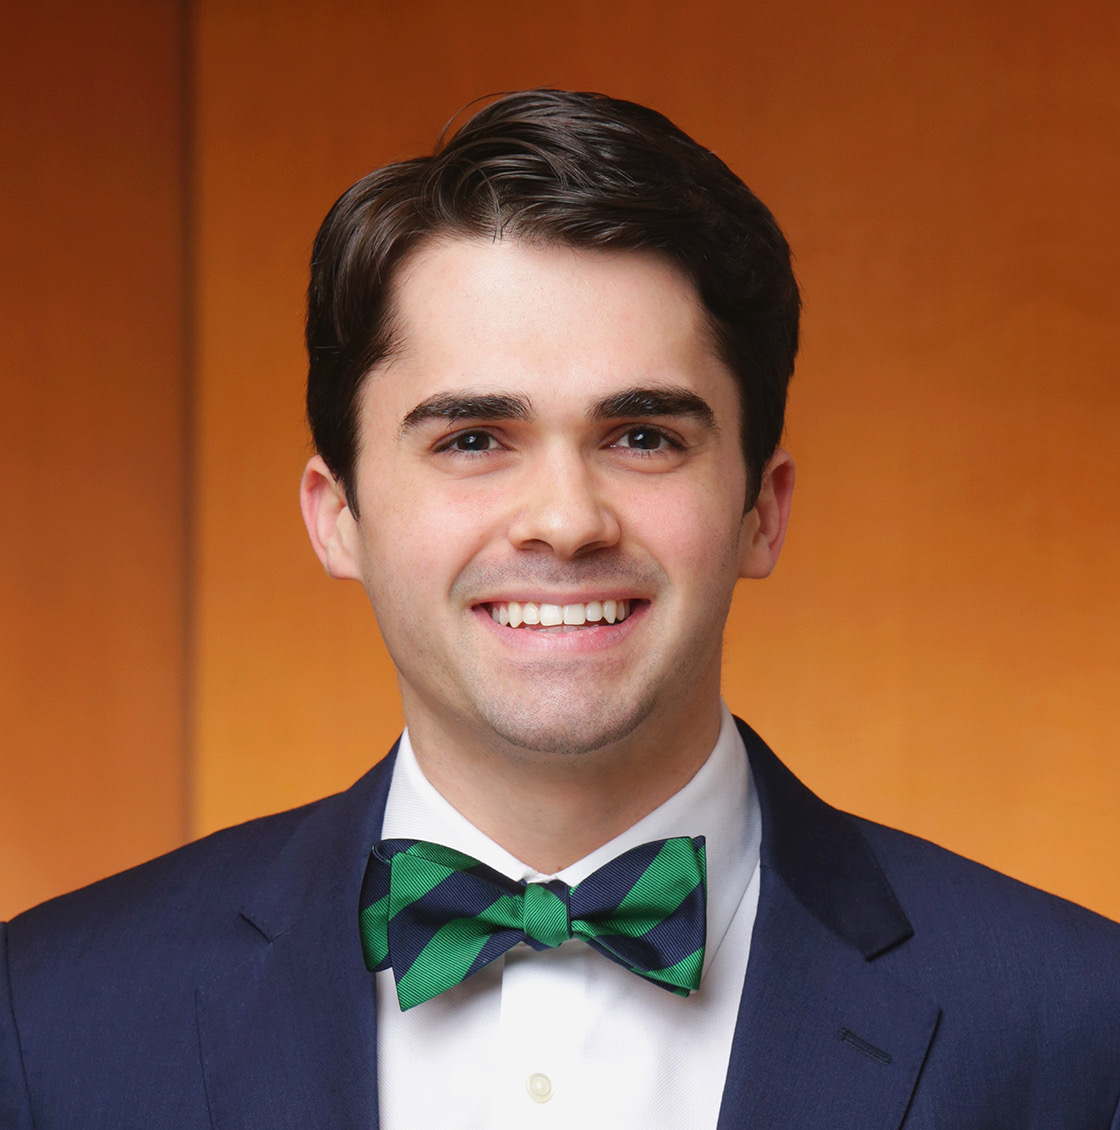
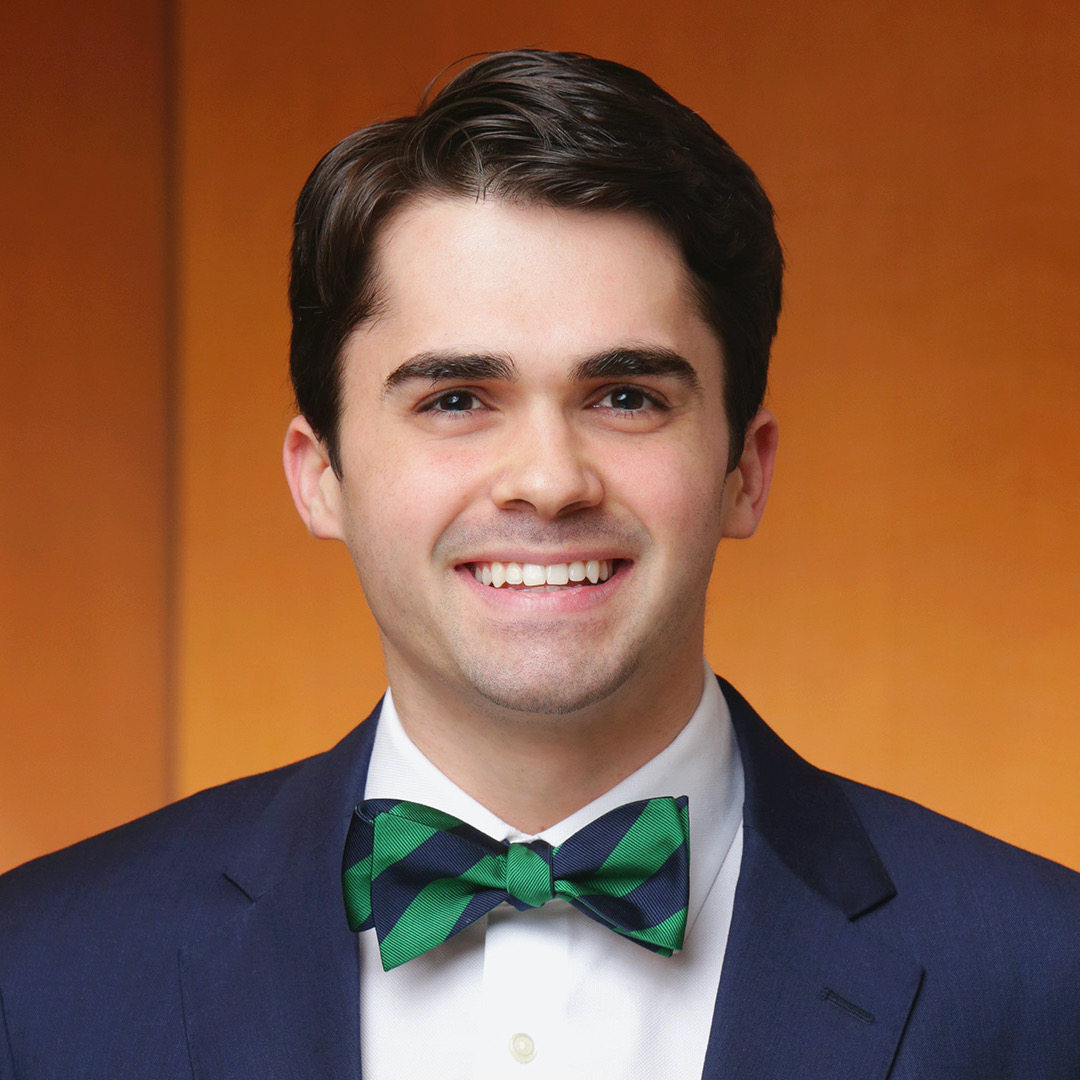
Updated picture resizing

diff --git a/attorneys.html b/attorneys.html
@@ -47,15 +47,15 @@
 							<div style="justify-content: center;margin: auto; display: flex;
 							flex-wrap: wrap;
 							box-sizing: border-box;">
-								<div style="width:50%;padding: 0;margin: auto;display: flex;
-								flex-wrap: wrap;
-								box-sizing: border-box;">
+								<div style="width:50%;padding: 0;margin: auto;">
 									<div style="min-height:170px;
-									min-width: 170px;padding: 5%;margin: auto;">
+									min-width: 100px;padding: 5%;margin: auto;">
 										<img src="images/Neil.jpeg" style="
 										display:inline-block;
-										height:165px;
-										width: 165px;
+										height:75%;
+										max-height: 215px;
+										width: 75%;
+										max-width: 215px;
 										text-align: center;
 										border-radius: 10px;
 										display: block;
@@ -66,11 +66,13 @@
 								</div>
 								<div style="width:50%;padding: 0;margin: auto;">
 									<div style="min-height:170px;
-									min-width: 170px;padding: 5%;margin: auto;">
+									min-width: 100px;padding: 5%;margin: auto;">
 										<img src="images/Mehak.jpg" style="
 										display:inline-block;
-										height:165px;
-										width: 165px;
+										height:75%;
+										max-height: 215px;
+										width: 75%;
+										max-width: 215px;
 										text-align: center;
 										border-radius: 10px;
 										display: block;
